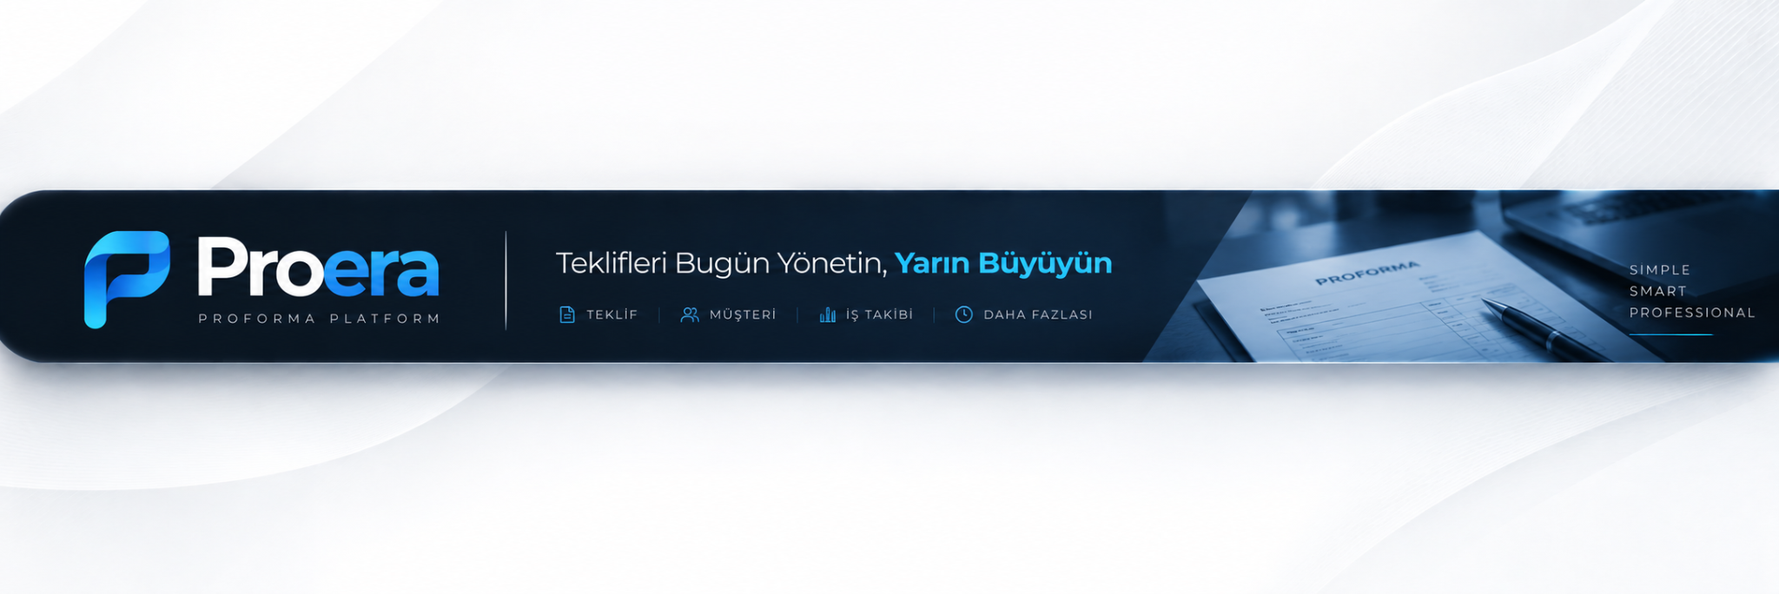
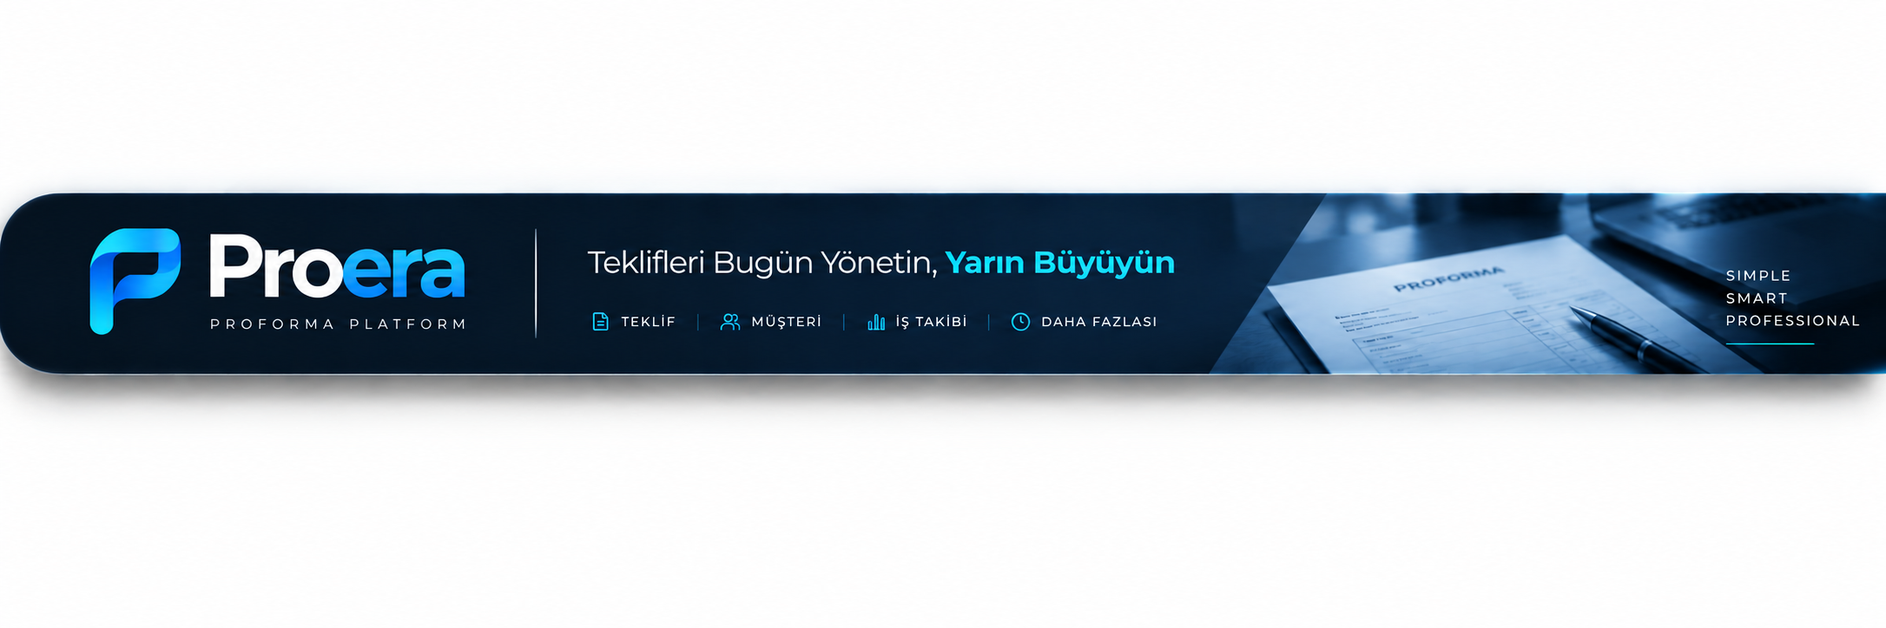
Add files via upload

Changed region(s): [[0.0, 0.307, 1.0, 0.7368], [0.3125, 0.4912, 0.625, 0.5526], [0.3125, 0.3991, 0.625, 0.4605]]

diff --git a/app.html b/app.html
@@ -46,6 +46,17 @@ input:focus,textarea:focus,select:focus{outline:none;border-color:var(--corp,#25
 :root{--app-bg:#eef2f7;--app-navy:#172033;--app-accent:#5B5BD6;--app-teal:#14B8A6}
 body{background:radial-gradient(circle at 10% 0%,#eef2ff 0,transparent 34%),radial-gradient(circle at 100% 20%,#ecfeff 0,transparent 30%),var(--app-bg)}
 .top{background:linear-gradient(120deg,#111827,#172033 58%,#242c46);border-bottom:1px solid #ffffff18;box-shadow:0 14px 40px #0f172a24}.brand span{color:#a5b4fc}.profile-pill{display:flex;align-items:center;gap:8px;padding:7px 10px;border:1px solid #ffffff22;background:#ffffff10;border-radius:14px;font-size:12px}.profile-avatar{width:28px;height:28px;border-radius:9px;background:linear-gradient(135deg,#818cf8,#14b8a6);display:grid;place-items:center;font-weight:900;color:white}.auth-shell{position:fixed;inset:0;z-index:9999;display:grid;place-items:center;padding:24px;background:radial-gradient(circle at 15% 15%,#6366f133 0,transparent 30%),radial-gradient(circle at 90% 85%,#14b8a633 0,transparent 30%),#0b1020}.auth-card{width:min(480px,94vw);padding:34px;border-radius:28px;background:#ffffffed;backdrop-filter:blur(28px);box-shadow:0 35px 100px #0008;border:1px solid #fff}.auth-mark{width:54px;height:54px;border-radius:17px;background:linear-gradient(135deg,#5B5BD6,#14B8A6);display:grid;place-items:center;color:#fff;font-size:25px;font-weight:900;box-shadow:0 14px 30px #5b5bd644}.auth-title{font-size:28px;margin:16px 0 5px;letter-spacing:-.6px}.auth-tabs{display:flex;background:#eef2f7;padding:4px;border-radius:12px;margin:18px 0}.auth-tabs button{flex:1;border:0;background:transparent;padding:9px;border-radius:9px;font-weight:800;color:#64748b;cursor:pointer}.auth-tabs button.active{background:#fff;color:#172033;box-shadow:0 3px 12px #0f172a12}.google-btn{width:100%;background:#fff;border:1px solid #dbe1ea;border-radius:12px;padding:11px;font-weight:800;cursor:pointer;margin-bottom:12px}.auth-sep{text-align:center;color:#94a3b8;font-size:11px;margin:10px 0}.onboard-overlay{position:fixed;inset:0;z-index:9998;display:none;place-items:center;padding:24px;background:#0b1020dd;backdrop-filter:blur(18px)}.onboard-card{width:min(640px,95vw);background:#fff;border-radius:28px;padding:32px;box-shadow:0 35px 100px #0007}.onboard-grid{display:grid;grid-template-columns:1fr 1fr;gap:10px}.company-profile-grid{display:grid;grid-template-columns:1fr 1fr;gap:10px}.company-profile-grid .full{grid-column:1/-1}.accent-preview{height:42px;border-radius:11px;background:linear-gradient(135deg,var(--corp),var(--app-accent));border:1px solid #0001}.top .btn{background:#ffffff10;color:#f8fafc;border:1px solid #ffffff12}.top .btn:hover{background:#ffffff1c}.top .notify-count{border:2px solid #172033}.panel,.paper,.settings-modal,.catalog-modal,.stock-modal,.archive-modal{border:1px solid #ffffffcc;box-shadow:0 18px 60px #0f172a12}
+
+<style id="v1432-proera-header">
+.proera-header-banner{max-width:calc(100% - 32px);margin:12px auto 0;border-radius:18px;overflow:hidden;box-shadow:0 14px 38px rgba(15,23,42,.14);background:#fff}
+.proera-header-banner img{display:block;width:100%;height:auto;max-height:205px;object-fit:cover;object-position:center}
+body>.top{margin-top:8px!important}
+body>.top>.brand{display:none!important}
+body>.top{justify-content:flex-end!important}
+@media(max-width:1050px){.proera-header-banner{max-width:calc(100% - 16px);margin-top:8px;border-radius:15px}.proera-header-banner img{max-height:160px}.top-actions{width:100%!important;justify-content:flex-start!important}}
+@media(max-width:700px){.proera-header-banner img{max-height:120px}.proera-header-banner{border-radius:12px}}
+@media print{.proera-header-banner{display:none!important}}
+</style>
 </style><meta name="era-version" content="11.9.1-compact-rate">
 <style id="v1192-overrides">
 /* V11.9.2: compact payment terms + strong black exchange rate */
@@ -145,17 +156,7 @@ input,textarea,select{border:1px solid rgba(15,23,42,.12)!important;border-radiu
 @media(max-width:1050px){.top{margin:8px}.top-actions{justify-content:flex-start!important}.wrap{margin-top:10px}}@media(max-width:700px){.top{border-radius:15px}.top .brand{width:100%;margin-bottom:5px}.top-actions>.btn{font-size:0!important;width:36px;padding:0!important}.top-actions>.btn::first-letter{font-size:15px}.panel{border-radius:18px!important}}
 @media print{body{background:#fff!important}.paper{border:0!important;box-shadow:none!important;border-radius:0!important}.top{display:none!important}}
 </style>
-<meta name="era-version" content="14.3-proera-proforma">
-<style id="proera-premium-header">
-.top.proera-hero{display:block!important;padding:0!important;background:#071525 url('proera-header.png') center/cover no-repeat!important;min-height:150px;border:0!important;box-shadow:0 18px 44px #0f172a2b!important;position:relative;overflow:visible}
-.proera-hero-spacer{height:150px}
-.proera-actions{display:flex!important;justify-content:flex-end!important;align-items:center!important;gap:7px!important;padding:9px 18px!important;background:linear-gradient(90deg,#071525f2,#10263bf2)!important;border-top:1px solid #ffffff18;box-shadow:0 8px 24px #0f172a20}
-.proera-actions .profile-pill{margin-right:auto}
-@media(max-width:1100px){.top.proera-hero{background-position:left center!important}.proera-hero-spacer{height:135px}.proera-actions{overflow-x:auto;justify-content:flex-start!important}.proera-actions .profile-pill{margin-right:0;min-width:max-content}.proera-actions .btn{min-width:max-content}}
-@media(max-width:700px){.top.proera-hero{background-size:auto 120px!important;background-position:left top!important;min-height:120px}.proera-hero-spacer{height:120px}.proera-actions{padding:8px 10px!important}}
-@media print{.top.proera-hero{display:none!important}}
-</style>
-</head><body><div id="authGate" class="auth-shell"><div class="auth-card"><div class="auth-mark">P</div><h1 class="auth-title">Proera</h1><div class="muted">Teklif ve proformalarınızı profesyonelce hazırlayın, müşterilerinizi ve ürünlerinizi tek çalışma alanında yönetin.</div><button class="google-btn" onclick="loginGoogle()">G&nbsp;&nbsp; Google ile Devam Et</button><div class="auth-sep">veya e-posta ile</div><div class="auth-tabs"><button id="tabLogin" class="active" onclick="setAuthMode('login')">Giriş</button><button id="tabSignup" onclick="setAuthMode('signup')">Üyelik</button></div><div id="nameArea" style="display:none"><label>Ad Soyad</label><input id="authName" autocomplete="name" placeholder="Ad Soyad"></div><label>E-posta</label><input id="authEmail" type="email" autocomplete="email" placeholder="ornek@firma.com"><div id="passwordArea"><label style="margin-top:10px">Şifre</label><input id="authPassword" type="password" autocomplete="current-password" placeholder="En az 8 karakter"></div><div id="confirmPasswordArea" style="display:none"><label style="margin-top:10px">Şifre Tekrar</label><input id="authPassword2" type="password" autocomplete="new-password" placeholder="Şifrenizi tekrar yazın"></div><div id="newPasswordArea" style="display:none"><label style="margin-top:10px">Yeni Şifre</label><input id="authNewPassword" type="password" autocomplete="new-password" placeholder="En az 8 karakter"><label style="margin-top:10px">Yeni Şifre Tekrar</label><input id="authNewPassword2" type="password" autocomplete="new-password" placeholder="Şifrenizi tekrar yazın"></div><div class="actions" id="authActions"><button class="btn primary" onclick="loginUser()">Giriş Yap</button><button class="btn light" onclick="resetPassword()">Şifremi Unuttum</button></div><div id="authMsg" class="muted" style="margin-top:12px"></div></div></div><div id="onboardOverlay" class="onboard-overlay"><div class="onboard-card"><div class="auth-mark">✦</div><h2 style="font-size:26px;margin:14px 0 6px">Firmanızı oluşturalım</h2><div class="muted" style="margin-bottom:18px">Bu bilgiler yalnızca sizin çalışma alanınızda kullanılacak. Daha sonra Ayarlar'dan değiştirebilirsiniz.</div><div class="onboard-grid"><div class="full"><label>Firma / Marka Adı *</label><input id="onboardCompany" placeholder="Örn: ABC Teknoloji"></div><div><label>Yetkili Adı</label><input id="onboardPerson" placeholder="Ad Soyad"></div><div><label>Telefon</label><input id="onboardPhone" placeholder="Telefon"></div></div><div class="actions" style="justify-content:flex-end"><button class="btn primary" onclick="createWorkspace()">Çalışma Alanını Oluştur →</button></div><div id="onboardMsg" class="muted" style="margin-top:10px"></div></div></div><header class="top proera-hero"><div class="proera-hero-spacer" aria-label="Proera - Teklifleri Bugün Yönetin, Yarın Büyüyün"></div><div class="top-actions proera-actions"><div class="profile-pill"><div class="profile-avatar" id="profileAvatar">P</div><div><b id="profileCompany">Firma</b><div id="profileEmail" style="opacity:.65;font-size:10px"></div></div></div><span id="syncStatus" style="font-size:12px;margin-right:5px">● Bulut</span><button class="btn light" style="padding:7px 10px" onclick="openArchive()">📁 Proforma Arşivi</button><button class="btn light" style="padding:7px 10px" onclick="openCatalog('manage')">📦 Ürün Kataloğu</button><div class="notify-wrap" id="notifyWrap"><button class="btn light notify-bell" type="button" onclick="toggleNotifications(event)" title="Stok Bildirimleri">🔔<span id="notifyCount" class="notify-count">0</span></button><div id="notifyPanel" class="notify-panel"><div class="notify-head"><span>Stok Bildirimleri</span><button class="notify-readall" onclick="markAllNotificationsRead(event)">Tümünü okundu yap</button></div><div id="notifyList" class="notify-empty">Bildirim yok.</div></div></div><button class="btn light" style="padding:7px 10px" onclick="openStockControl()">📊 Stok Kontrolü</button><button class="btn light" style="padding:7px 10px" onclick="openSettings()">⚙ Ayarlar</button><button class="btn light" style="padding:7px 10px" onclick="logoutUser()">Çıkış</button></div></header><div id="settingsOverlay" class="settings-overlay"><div class="settings-modal"><div class="settings-head"><div><h2 style="margin:0">⚙ Ayarlar Merkezi</h2><div class="muted">Sabit şirket bilgileri burada merkezi olarak yönetilir.</div></div><button class="btn light" onclick="closeSettings()">✕ Kapat</button></div><div class="settings-body"><div class="settings-card"><h3>Firma Profili</h3><div class="hint">Bu bilgiler yalnızca sizin firmanıza aittir ve proformanın Satıcı bölümünde kullanılır.</div><div class="company-profile-grid"><div><label>Kısa Firma / Marka Adı</label><input id="companyDisplayName" placeholder="Firma adı"></div><div><label>Resmi Ünvan</label><input id="companyLegalName" placeholder="Resmi şirket ünvanı"></div><div class="full"><label>Adres</label><textarea id="companyAddress" placeholder="Firma adresi"></textarea></div><div><label>Vergi Dairesi</label><input id="companyTaxOffice"></div><div><label>Vergi No</label><input id="companyTaxNumber"></div><div><label>Telefon</label><input id="companyPhone"></div><div><label>E-posta</label><input id="companyEmail" type="email"></div><div class="full"><label>Web Sitesi</label><input id="companyWebsite" placeholder="www.firma.com"></div></div></div><div class="settings-card"><h3>Şirket Logosu</h3><div class="hint">Logo tüm bilgisayarlarda ve proformalarda otomatik kullanılır.</div><div class="settings-logo-row"><div class="settings-logo-box"><img id="logoPreview" class="logo-preview" alt="Şirket logosu"></div><div style="flex:1"><input id="logo" type="file" accept="image/png,image/jpeg,image/webp"><div class="muted" style="margin-top:6px">PNG / JPG / WEBP önerilir.</div></div></div></div><div class="settings-card"><h3>Kurumsal Tasarım</h3><div class="hint">Proforma başlıkları, tablo ve toplam alanlarında kullanılacak renk.</div><div class="grid"><div><label>Kurumsal Renk</label><input id="corpColor" type="color" value="#111827" style="height:42px;padding:4px"></div><div><label>Renk Kodu</label><input id="corpHex" value="#111827" placeholder="#111827"></div></div></div><div class="settings-card"><h3>Banka / IBAN Bilgileri</h3><div class="hint">Buradaki hesaplar proformanın banka bölümünde otomatik gösterilir.</div><div id="bankEditors" class="bank-list-editor"></div><div class="actions"><button type="button" class="btn light" onclick="addBank()">+ Banka Ekle</button></div></div><div class="settings-card"><h3>Varsayılan Proforma Ayarları</h3><div class="hint">Yeni proforma açıldığında bu değerler otomatik uygulanır.</div><div class="grid"><div><label>Varsayılan Para Birimi</label><select id="defaultCurrency"><option value="EUR">EUR (€)</option><option value="USD">USD</option><option value="TRY">TRY (TL)</option></select></div><div><label>Varsayılan KDV %</label><input id="defaultVat" type="number" min="0" step="1" value="20"></div><div><label>Varsayılan Geçerlilik</label><select id="defaultValidity"><option value="7">7 gün</option><option value="15">15 gün</option><option value="30">30 gün</option><option value="60">60 gün</option></select></div><div class="full"><label>Varsayılan Teslimat Notu</label><input id="defaultDeliveryNote" placeholder="Örn: Stok durumuna göre 3-5 iş günü"></div></div></div></div><div class="settings-footer"><button class="btn light" onclick="closeSettings()">Vazgeç</button><button class="btn primary" onclick="saveAllSettings()">☁ Ayarları Kaydet</button></div></div></div><div id="catalogOverlay" class="catalog-overlay"><div class="catalog-modal"><div class="catalog-head"><div><h2 style="margin:0">📦 Ürün Kataloğu</h2><div class="muted">Ürünleri burada merkezi olarak ekleyin ve düzenleyin. Proforma ekranında sadece ürün seçilir.</div></div><button class="btn light" onclick="closeCatalog()">✕ Kapat</button></div><div class="catalog-body"><div class="catalog-form-card"><div class="catalog-grid"><input id="catCode" placeholder="Ürün Kodu / SKU"><input id="catName" class="wide" placeholder="Ürün adı"><input id="catGtip" placeholder="GTİP"><input id="catBrand" placeholder="Marka"><input id="catOrigin" placeholder="Menşei"><input id="catModel" placeholder="Model"><div><label>Varsayılan Birim Fiyat</label><input id="catPrice" class="money-input" type="text" inputmode="decimal" placeholder="Örn: 5.600"></div><input id="catVat" type="number" value="20" placeholder="KDV %"><select id="catCurrency"><option>EUR</option><option>USD</option><option>TRY</option></select><textarea id="catDescription" class="wide" placeholder="Açıklama / not"></textarea><div class="catalog-stock-grid"><div><label>Mevcut Stok</label><input id="catStock" type="number" min="0" value="0"></div><div><label>Kritik Alt Sınır</label><input id="catLow" type="number" min="0" value="5"></div><div><label>Yeterli Stok Sınırı</label><input id="catGood" type="number" min="0" value="15"></div></div></div><div class="actions"><button type="button" class="btn primary" onclick="saveCatalogProduct()">☁ Ürünü Kaydet</button><button type="button" class="btn light" onclick="clearCatalogForm()">Yeni / Temizle</button></div></div><div class="catalog-toolbar"><input id="catalogQuery" placeholder="Ürün kodu, ürün adı, GTİP, marka veya model ara" oninput="loadCatalog()"></div><div id="catalogSelectBar" class="actions" style="display:none;margin:10px 0"><button type="button" class="btn primary" onclick="addSelectedCatalogProducts()">✓ Seçilenleri Teklife Ekle</button><span class="muted">Bir veya birden fazla ürün seçebilirsiniz.</span></div><div id="catalogList" class="catalog-list"></div></div></div></div><div id="stockOverlay" class="stock-overlay"><div class="stock-modal"><div class="stock-head"><div><h2 style="margin:0">📊 Stok Kontrolü</h2><div class="muted">Kırmızı: 5 altı • Sarı: 5–14 • Yeşil: 15 ve üzeri</div></div><button class="btn light" onclick="closeStockControl()">✕ Kapat</button></div><div class="stock-body"><div class="stock-stats"><div class="stock-stat"><b id="stockRedCount">0</b><span>🔴 Kritik</span></div><div class="stock-stat"><b id="stockYellowCount">0</b><span>🟡 Azalan</span></div><div class="stock-stat"><b id="stockGreenCount">0</b><span>🟢 Yeterli</span></div></div><div class="catalog-toolbar"><input id="stockQuery" placeholder="Stoklarda ürün ara" oninput="renderStockControl()"><select id="stockFilter" onchange="renderStockControl()"><option value="all">Tümü</option><option value="red">Kritik</option><option value="yellow">Azalan</option><option value="green">Yeterli</option></select></div><div class="stock-movement"><div class="wide-mobile"><label>Ürün</label><select id="moveProduct"></select></div><div><label>Hareket</label><select id="moveType"><option>Giriş</option><option>Satış</option><option>Demo</option><option>İade</option><option>Düzeltme</option></select></div><div><label>Adet</label><input id="moveQty" type="number" min="0" value="1"></div><div class="wide-mobile"><label>Not</label><input id="moveNote" placeholder="Opsiyonel açıklama"></div><button class="btn primary" onclick="saveStockMovement()">Kaydet</button></div><div id="stockList"></div></div></div></div><div id="archiveOverlay" class="archive-overlay"><div class="archive-modal"><div class="archive-head"><div><h2 style="margin:0">Proforma Arşivi</h2><div class="muted">Kaydedilmiş proformaları görüntüleyin ve tekrar açın.</div></div><button class="btn light" onclick="closeArchive()">✕ Kapat</button></div><div class="archive-stats"><button class="archive-stat wait" id="statWait" onclick="setArchiveFilter('Onaya Gönderildi')"><b id="countWait">0</b>Onay Bekleyen</button><button class="archive-stat ok" id="statOk" onclick="setArchiveFilter('Onaylandı')"><b id="countOk">0</b>Onaylanan</button><button class="archive-stat no" id="statNo" onclick="setArchiveFilter('Onaylanmadı')"><b id="countNo">0</b>Onaylanmayan</button></div><div class="archive-search"><input id="archiveQuery" placeholder="Proforma no, müşteri, teklifi veren veya ürün ara" oninput="loadArchive()"><select id="archiveLimit" onchange="loadArchive()"><option value="25">Son 25</option><option value="50">Son 50</option><option value="100">Son 100</option></select></div><div id="archiveList"></div></div></div><div id="viewToolbar" class="view-toolbar"><div><b id="viewTitle">Kayıtlı Proforma</b><div style="font-size:11px;opacity:.8">Görüntüleme modu • değişiklik yapılmaz</div></div><div class="actions"><button class="btn light" onclick="window.print()">🖨 Yazdır / PDF</button><button class="btn blue" onclick="enableArchiveEdit()">✎ Düzenle</button><button class="btn light" onclick="window.close()">✕ Sekmeyi Kapat</button></div></div><main class="wrap"><section class="panel"><h2>Yeni Proforma</h2><div class="grid"><div><label>Tarih</label><input id="date" type="date"></div><div><label>Proforma No</label><input id="no" placeholder="Otomatik oluşturulacak" readonly style="background:#f3f4f6;font-weight:700"><div class="muted" style="margin-top:5px">Yeni proforma açıldığında otomatik numara verilir.</div></div></div><div class="section"><label>Alıcı Firma</label><div class="grid"><input class="full" id="buyerName" placeholder="Firma adını yazın ve kayıtlı müşterilerde arayın" autocomplete="off"><div class="full company-actions"><button type="button" class="btn light" onclick="searchCompany()">🔎 Firma Ara</button><button type="button" class="btn light" onclick="saveCustomer()">💾 Müşteriyi Kaydet</button></div><div id="companyResults" class="full company-search-results"></div><textarea class="full" id="buyerAddress" placeholder="Adres"></textarea><input id="buyerTaxOffice" placeholder="Vergi Dairesi"><input id="buyerTaxNo" placeholder="Vergi No"><input id="buyerPhone" placeholder="Telefon"><input id="buyerEmail" placeholder="E-posta"></div></div><div class="section"><label>Ürünler</label><div class="muted">Ana yöntem katalogdan seçimdir. Ürün bilgileri ve kayıtlı fiyat otomatik yüklenir.</div><div class="actions" style="margin:10px 0"><button type="button" class="btn primary" onclick="openCatalog('select')">📦 Katalogdan Ürün Seç</button><button type="button" class="btn light" onclick="addItem()">+ Manuel Ürün</button></div><div id="items" class="items"></div></div><div class="section"><div class="grid"><div class="rate-line"><div><label>Kur</label><input id="rate" value="" type="number" step="0.0001"></div><button type="button" class="btn light" onclick="fetchRate()">↻ Kuru Güncelle</button></div><div><label>Para Birimi</label><select id="currency"><option>€</option><option>USD</option><option>TL</option></select><div id="rateStatus" class="rate-status"></div></div><div><label>Proforma Durumu</label><select id="status"><option>Onaya Gönderildi</option><option>Onaylandı</option><option>Onaylanmadı</option></select></div><div><label>Geçerlilik</label><select id="validityDays"><option value="7">7 gün</option><option value="15">15 gün</option><option value="30">30 gün</option><option value="60">60 gün</option></select><div id="validUntilText" class="rate-status"></div></div><div class="quote-options"><div class="quote-options-title">🧾 Fiyat & PDF Görünümü</div><div class="vat-mode"><label><input type="radio" name="vatMode" value="excluded" checked onchange="render()"> KDV Hariç Fiyat</label><label><input type="radio" name="vatMode" value="included" onchange="render()"> KDV Dahil Fiyat</label></div><div class="premium-choice"><label><input id="showProductCode" type="checkbox" checked onchange="render()"> Ürün Kodu</label><label><input id="showGtip" type="checkbox" checked onchange="render()"> GTİP</label><label><input id="showBrand" type="checkbox" checked onchange="render()"> Marka</label><label><input id="showOrigin" type="checkbox" checked onchange="render()"> Menşei</label><label><input id="showModel" type="checkbox" checked onchange="render()"> Model</label><label><input id="showSerial" type="checkbox" checked onchange="render()"> Seri No</label></div><div class="muted" style="margin-top:7px">Gizlenen bilgiler katalogda saklanır; yalnızca proforma/PDF görünümünden kaldırılır.</div></div><div class="full payment-panel"><label>💳 Ödeme Şartları / Payment Terms</label><div class="payment-presets"><button type="button" class="btn light" onclick="setPayment('Peşin')">Peşin</button><button type="button" class="btn light" onclick="setPayment('%30 Peşin + %70 Teslimatta')">%30 + %70</button><button type="button" class="btn light" onclick="setPayment('ÖDEMENİN HEPSİ BONUSA 6 KART TAKSİT / PEŞİNAT YOK')">Bonus 6 Taksit</button><button type="button" class="btn light" onclick="setPayment('Leasing ile ödeme')">Leasing</button></div><textarea id="payment" rows="3">ÖDEMENİN HEPSİ BONUSA 6 KART TAKSİT / PEŞİNAT YOK</textarea></div><div class="full"><label>👤 Teklifi Veren / Satış Sorumlusu *</label><input id="bidder" placeholder="Örn: Burak Yavuz" required><div class="muted" style="margin-top:5px">Arşivde bu kişi teklifin takip sorumlusu olarak görünür.</div></div></div></div><div class="section"><label>Genel Teklif Bilgileri</label><div class="grid"><input id="delivery" placeholder="Teslim Tarihi"><textarea id="notes" class="full" placeholder="Notlar / koşullar"></textarea></div><div class="muted" style="margin-top:6px">GTİP, marka, menşei, model ve seri no artık her ürünün kendi satırında tutulur.</div></div><div class="actions"><button class="btn primary" onclick="saveProformaAndPdf()">☁ Kaydet + PDF</button><button class="btn light" onclick="window.print()">🖨 Yazdır</button><button class="btn blue" onclick="saveDraft()">Taslak Kaydet</button><button class="btn light" onclick="copyCurrentProforma()">⧉ Proformayı Kopyala</button><button class="btn light" onclick="resetForm()">Temizle</button></div></section><section class="paper" id="paper"></section></main><script src="https://cdn.jsdelivr.net/npm/@supabase/supabase-js@2"></script><script>
+<meta name="era-version" content="14.3-proera-proforma"></head><body><div class="proera-header-banner" aria-label="Proera Proforma Platform"><img src="proera-header.png" alt="Proera — Teklifleri Bugün Yönetin, Yarın Büyüyün"></div><div id="authGate" class="auth-shell"><div class="auth-card"><div class="auth-mark">P</div><h1 class="auth-title">Proera</h1><div class="muted">Teklif ve proformalarınızı profesyonelce hazırlayın, müşterilerinizi ve ürünlerinizi tek çalışma alanında yönetin.</div><button class="google-btn" onclick="loginGoogle()">G&nbsp;&nbsp; Google ile Devam Et</button><div class="auth-sep">veya e-posta ile</div><div class="auth-tabs"><button id="tabLogin" class="active" onclick="setAuthMode('login')">Giriş</button><button id="tabSignup" onclick="setAuthMode('signup')">Üyelik</button></div><div id="nameArea" style="display:none"><label>Ad Soyad</label><input id="authName" autocomplete="name" placeholder="Ad Soyad"></div><label>E-posta</label><input id="authEmail" type="email" autocomplete="email" placeholder="ornek@firma.com"><div id="passwordArea"><label style="margin-top:10px">Şifre</label><input id="authPassword" type="password" autocomplete="current-password" placeholder="En az 8 karakter"></div><div id="confirmPasswordArea" style="display:none"><label style="margin-top:10px">Şifre Tekrar</label><input id="authPassword2" type="password" autocomplete="new-password" placeholder="Şifrenizi tekrar yazın"></div><div id="newPasswordArea" style="display:none"><label style="margin-top:10px">Yeni Şifre</label><input id="authNewPassword" type="password" autocomplete="new-password" placeholder="En az 8 karakter"><label style="margin-top:10px">Yeni Şifre Tekrar</label><input id="authNewPassword2" type="password" autocomplete="new-password" placeholder="Şifrenizi tekrar yazın"></div><div class="actions" id="authActions"><button class="btn primary" onclick="loginUser()">Giriş Yap</button><button class="btn light" onclick="resetPassword()">Şifremi Unuttum</button></div><div id="authMsg" class="muted" style="margin-top:12px"></div></div></div><div id="onboardOverlay" class="onboard-overlay"><div class="onboard-card"><div class="auth-mark">✦</div><h2 style="font-size:26px;margin:14px 0 6px">Firmanızı oluşturalım</h2><div class="muted" style="margin-bottom:18px">Bu bilgiler yalnızca sizin çalışma alanınızda kullanılacak. Daha sonra Ayarlar'dan değiştirebilirsiniz.</div><div class="onboard-grid"><div class="full"><label>Firma / Marka Adı *</label><input id="onboardCompany" placeholder="Örn: ABC Teknoloji"></div><div><label>Yetkili Adı</label><input id="onboardPerson" placeholder="Ad Soyad"></div><div><label>Telefon</label><input id="onboardPhone" placeholder="Telefon"></div></div><div class="actions" style="justify-content:flex-end"><button class="btn primary" onclick="createWorkspace()">Çalışma Alanını Oluştur →</button></div><div id="onboardMsg" class="muted" style="margin-top:10px"></div></div></div><header class="top"><div class="brand"><img id="headerLogo" class="logo-preview" style="display:none;vertical-align:middle;margin:0 10px 0 0;max-height:42px" alt="Logo"><span id="headerCompanyName">PROERA</span> <span>BUSINESS</span></div><div class="top-actions"><div class="profile-pill"><div class="profile-avatar" id="profileAvatar">P</div><div><b id="profileCompany">Firma</b><div id="profileEmail" style="opacity:.65;font-size:10px"></div></div></div><span id="syncStatus" style="font-size:12px;margin-right:5px">● Bulut</span><button class="btn light" style="padding:7px 10px" onclick="openArchive()">📁 Proforma Arşivi</button><button class="btn light" style="padding:7px 10px" onclick="openCatalog('manage')">📦 Ürün Kataloğu</button><div class="notify-wrap" id="notifyWrap"><button class="btn light notify-bell" type="button" onclick="toggleNotifications(event)" title="Stok Bildirimleri">🔔<span id="notifyCount" class="notify-count">0</span></button><div id="notifyPanel" class="notify-panel"><div class="notify-head"><span>Stok Bildirimleri</span><button class="notify-readall" onclick="markAllNotificationsRead(event)">Tümünü okundu yap</button></div><div id="notifyList" class="notify-empty">Bildirim yok.</div></div></div><button class="btn light" style="padding:7px 10px" onclick="openStockControl()">📊 Stok Kontrolü</button><button class="btn light" style="padding:7px 10px" onclick="openSettings()">⚙ Ayarlar</button><button class="btn light" style="padding:7px 10px" onclick="logoutUser()">Çıkış</button></div></header><div id="settingsOverlay" class="settings-overlay"><div class="settings-modal"><div class="settings-head"><div><h2 style="margin:0">⚙ Ayarlar Merkezi</h2><div class="muted">Sabit şirket bilgileri burada merkezi olarak yönetilir.</div></div><button class="btn light" onclick="closeSettings()">✕ Kapat</button></div><div class="settings-body"><div class="settings-card"><h3>Firma Profili</h3><div class="hint">Bu bilgiler yalnızca sizin firmanıza aittir ve proformanın Satıcı bölümünde kullanılır.</div><div class="company-profile-grid"><div><label>Kısa Firma / Marka Adı</label><input id="companyDisplayName" placeholder="Firma adı"></div><div><label>Resmi Ünvan</label><input id="companyLegalName" placeholder="Resmi şirket ünvanı"></div><div class="full"><label>Adres</label><textarea id="companyAddress" placeholder="Firma adresi"></textarea></div><div><label>Vergi Dairesi</label><input id="companyTaxOffice"></div><div><label>Vergi No</label><input id="companyTaxNumber"></div><div><label>Telefon</label><input id="companyPhone"></div><div><label>E-posta</label><input id="companyEmail" type="email"></div><div class="full"><label>Web Sitesi</label><input id="companyWebsite" placeholder="www.firma.com"></div></div></div><div class="settings-card"><h3>Şirket Logosu</h3><div class="hint">Logo tüm bilgisayarlarda ve proformalarda otomatik kullanılır.</div><div class="settings-logo-row"><div class="settings-logo-box"><img id="logoPreview" class="logo-preview" alt="Şirket logosu"></div><div style="flex:1"><input id="logo" type="file" accept="image/png,image/jpeg,image/webp"><div class="muted" style="margin-top:6px">PNG / JPG / WEBP önerilir.</div></div></div></div><div class="settings-card"><h3>Kurumsal Tasarım</h3><div class="hint">Proforma başlıkları, tablo ve toplam alanlarında kullanılacak renk.</div><div class="grid"><div><label>Kurumsal Renk</label><input id="corpColor" type="color" value="#111827" style="height:42px;padding:4px"></div><div><label>Renk Kodu</label><input id="corpHex" value="#111827" placeholder="#111827"></div></div></div><div class="settings-card"><h3>Banka / IBAN Bilgileri</h3><div class="hint">Buradaki hesaplar proformanın banka bölümünde otomatik gösterilir.</div><div id="bankEditors" class="bank-list-editor"></div><div class="actions"><button type="button" class="btn light" onclick="addBank()">+ Banka Ekle</button></div></div><div class="settings-card"><h3>Varsayılan Proforma Ayarları</h3><div class="hint">Yeni proforma açıldığında bu değerler otomatik uygulanır.</div><div class="grid"><div><label>Varsayılan Para Birimi</label><select id="defaultCurrency"><option value="EUR">EUR (€)</option><option value="USD">USD</option><option value="TRY">TRY (TL)</option></select></div><div><label>Varsayılan KDV %</label><input id="defaultVat" type="number" min="0" step="1" value="20"></div><div><label>Varsayılan Geçerlilik</label><select id="defaultValidity"><option value="7">7 gün</option><option value="15">15 gün</option><option value="30">30 gün</option><option value="60">60 gün</option></select></div><div class="full"><label>Varsayılan Teslimat Notu</label><input id="defaultDeliveryNote" placeholder="Örn: Stok durumuna göre 3-5 iş günü"></div></div></div></div><div class="settings-footer"><button class="btn light" onclick="closeSettings()">Vazgeç</button><button class="btn primary" onclick="saveAllSettings()">☁ Ayarları Kaydet</button></div></div></div><div id="catalogOverlay" class="catalog-overlay"><div class="catalog-modal"><div class="catalog-head"><div><h2 style="margin:0">📦 Ürün Kataloğu</h2><div class="muted">Ürünleri burada merkezi olarak ekleyin ve düzenleyin. Proforma ekranında sadece ürün seçilir.</div></div><button class="btn light" onclick="closeCatalog()">✕ Kapat</button></div><div class="catalog-body"><div class="catalog-form-card"><div class="catalog-grid"><input id="catCode" placeholder="Ürün Kodu / SKU"><input id="catName" class="wide" placeholder="Ürün adı"><input id="catGtip" placeholder="GTİP"><input id="catBrand" placeholder="Marka"><input id="catOrigin" placeholder="Menşei"><input id="catModel" placeholder="Model"><div><label>Varsayılan Birim Fiyat</label><input id="catPrice" class="money-input" type="text" inputmode="decimal" placeholder="Örn: 5.600"></div><input id="catVat" type="number" value="20" placeholder="KDV %"><select id="catCurrency"><option>EUR</option><option>USD</option><option>TRY</option></select><textarea id="catDescription" class="wide" placeholder="Açıklama / not"></textarea><div class="catalog-stock-grid"><div><label>Mevcut Stok</label><input id="catStock" type="number" min="0" value="0"></div><div><label>Kritik Alt Sınır</label><input id="catLow" type="number" min="0" value="5"></div><div><label>Yeterli Stok Sınırı</label><input id="catGood" type="number" min="0" value="15"></div></div></div><div class="actions"><button type="button" class="btn primary" onclick="saveCatalogProduct()">☁ Ürünü Kaydet</button><button type="button" class="btn light" onclick="clearCatalogForm()">Yeni / Temizle</button></div></div><div class="catalog-toolbar"><input id="catalogQuery" placeholder="Ürün kodu, ürün adı, GTİP, marka veya model ara" oninput="loadCatalog()"></div><div id="catalogSelectBar" class="actions" style="display:none;margin:10px 0"><button type="button" class="btn primary" onclick="addSelectedCatalogProducts()">✓ Seçilenleri Teklife Ekle</button><span class="muted">Bir veya birden fazla ürün seçebilirsiniz.</span></div><div id="catalogList" class="catalog-list"></div></div></div></div><div id="stockOverlay" class="stock-overlay"><div class="stock-modal"><div class="stock-head"><div><h2 style="margin:0">📊 Stok Kontrolü</h2><div class="muted">Kırmızı: 5 altı • Sarı: 5–14 • Yeşil: 15 ve üzeri</div></div><button class="btn light" onclick="closeStockControl()">✕ Kapat</button></div><div class="stock-body"><div class="stock-stats"><div class="stock-stat"><b id="stockRedCount">0</b><span>🔴 Kritik</span></div><div class="stock-stat"><b id="stockYellowCount">0</b><span>🟡 Azalan</span></div><div class="stock-stat"><b id="stockGreenCount">0</b><span>🟢 Yeterli</span></div></div><div class="catalog-toolbar"><input id="stockQuery" placeholder="Stoklarda ürün ara" oninput="renderStockControl()"><select id="stockFilter" onchange="renderStockControl()"><option value="all">Tümü</option><option value="red">Kritik</option><option value="yellow">Azalan</option><option value="green">Yeterli</option></select></div><div class="stock-movement"><div class="wide-mobile"><label>Ürün</label><select id="moveProduct"></select></div><div><label>Hareket</label><select id="moveType"><option>Giriş</option><option>Satış</option><option>Demo</option><option>İade</option><option>Düzeltme</option></select></div><div><label>Adet</label><input id="moveQty" type="number" min="0" value="1"></div><div class="wide-mobile"><label>Not</label><input id="moveNote" placeholder="Opsiyonel açıklama"></div><button class="btn primary" onclick="saveStockMovement()">Kaydet</button></div><div id="stockList"></div></div></div></div><div id="archiveOverlay" class="archive-overlay"><div class="archive-modal"><div class="archive-head"><div><h2 style="margin:0">Proforma Arşivi</h2><div class="muted">Kaydedilmiş proformaları görüntüleyin ve tekrar açın.</div></div><button class="btn light" onclick="closeArchive()">✕ Kapat</button></div><div class="archive-stats"><button class="archive-stat wait" id="statWait" onclick="setArchiveFilter('Onaya Gönderildi')"><b id="countWait">0</b>Onay Bekleyen</button><button class="archive-stat ok" id="statOk" onclick="setArchiveFilter('Onaylandı')"><b id="countOk">0</b>Onaylanan</button><button class="archive-stat no" id="statNo" onclick="setArchiveFilter('Onaylanmadı')"><b id="countNo">0</b>Onaylanmayan</button></div><div class="archive-search"><input id="archiveQuery" placeholder="Proforma no, müşteri, teklifi veren veya ürün ara" oninput="loadArchive()"><select id="archiveLimit" onchange="loadArchive()"><option value="25">Son 25</option><option value="50">Son 50</option><option value="100">Son 100</option></select></div><div id="archiveList"></div></div></div><div id="viewToolbar" class="view-toolbar"><div><b id="viewTitle">Kayıtlı Proforma</b><div style="font-size:11px;opacity:.8">Görüntüleme modu • değişiklik yapılmaz</div></div><div class="actions"><button class="btn light" onclick="window.print()">🖨 Yazdır / PDF</button><button class="btn blue" onclick="enableArchiveEdit()">✎ Düzenle</button><button class="btn light" onclick="window.close()">✕ Sekmeyi Kapat</button></div></div><main class="wrap"><section class="panel"><h2>Yeni Proforma</h2><div class="grid"><div><label>Tarih</label><input id="date" type="date"></div><div><label>Proforma No</label><input id="no" placeholder="Otomatik oluşturulacak" readonly style="background:#f3f4f6;font-weight:700"><div class="muted" style="margin-top:5px">Yeni proforma açıldığında otomatik numara verilir.</div></div></div><div class="section"><label>Alıcı Firma</label><div class="grid"><input class="full" id="buyerName" placeholder="Firma adını yazın ve kayıtlı müşterilerde arayın" autocomplete="off"><div class="full company-actions"><button type="button" class="btn light" onclick="searchCompany()">🔎 Firma Ara</button><button type="button" class="btn light" onclick="saveCustomer()">💾 Müşteriyi Kaydet</button></div><div id="companyResults" class="full company-search-results"></div><textarea class="full" id="buyerAddress" placeholder="Adres"></textarea><input id="buyerTaxOffice" placeholder="Vergi Dairesi"><input id="buyerTaxNo" placeholder="Vergi No"><input id="buyerPhone" placeholder="Telefon"><input id="buyerEmail" placeholder="E-posta"></div></div><div class="section"><label>Ürünler</label><div class="muted">Ana yöntem katalogdan seçimdir. Ürün bilgileri ve kayıtlı fiyat otomatik yüklenir.</div><div class="actions" style="margin:10px 0"><button type="button" class="btn primary" onclick="openCatalog('select')">📦 Katalogdan Ürün Seç</button><button type="button" class="btn light" onclick="addItem()">+ Manuel Ürün</button></div><div id="items" class="items"></div></div><div class="section"><div class="grid"><div class="rate-line"><div><label>Kur</label><input id="rate" value="" type="number" step="0.0001"></div><button type="button" class="btn light" onclick="fetchRate()">↻ Kuru Güncelle</button></div><div><label>Para Birimi</label><select id="currency"><option>€</option><option>USD</option><option>TL</option></select><div id="rateStatus" class="rate-status"></div></div><div><label>Proforma Durumu</label><select id="status"><option>Onaya Gönderildi</option><option>Onaylandı</option><option>Onaylanmadı</option></select></div><div><label>Geçerlilik</label><select id="validityDays"><option value="7">7 gün</option><option value="15">15 gün</option><option value="30">30 gün</option><option value="60">60 gün</option></select><div id="validUntilText" class="rate-status"></div></div><div class="quote-options"><div class="quote-options-title">🧾 Fiyat & PDF Görünümü</div><div class="vat-mode"><label><input type="radio" name="vatMode" value="excluded" checked onchange="render()"> KDV Hariç Fiyat</label><label><input type="radio" name="vatMode" value="included" onchange="render()"> KDV Dahil Fiyat</label></div><div class="premium-choice"><label><input id="showProductCode" type="checkbox" checked onchange="render()"> Ürün Kodu</label><label><input id="showGtip" type="checkbox" checked onchange="render()"> GTİP</label><label><input id="showBrand" type="checkbox" checked onchange="render()"> Marka</label><label><input id="showOrigin" type="checkbox" checked onchange="render()"> Menşei</label><label><input id="showModel" type="checkbox" checked onchange="render()"> Model</label><label><input id="showSerial" type="checkbox" checked onchange="render()"> Seri No</label></div><div class="muted" style="margin-top:7px">Gizlenen bilgiler katalogda saklanır; yalnızca proforma/PDF görünümünden kaldırılır.</div></div><div class="full payment-panel"><label>💳 Ödeme Şartları / Payment Terms</label><div class="payment-presets"><button type="button" class="btn light" onclick="setPayment('Peşin')">Peşin</button><button type="button" class="btn light" onclick="setPayment('%30 Peşin + %70 Teslimatta')">%30 + %70</button><button type="button" class="btn light" onclick="setPayment('ÖDEMENİN HEPSİ BONUSA 6 KART TAKSİT / PEŞİNAT YOK')">Bonus 6 Taksit</button><button type="button" class="btn light" onclick="setPayment('Leasing ile ödeme')">Leasing</button></div><textarea id="payment" rows="3">ÖDEMENİN HEPSİ BONUSA 6 KART TAKSİT / PEŞİNAT YOK</textarea></div><div class="full"><label>👤 Teklifi Veren / Satış Sorumlusu *</label><input id="bidder" placeholder="Örn: Burak Yavuz" required><div class="muted" style="margin-top:5px">Arşivde bu kişi teklifin takip sorumlusu olarak görünür.</div></div></div></div><div class="section"><label>Genel Teklif Bilgileri</label><div class="grid"><input id="delivery" placeholder="Teslim Tarihi"><textarea id="notes" class="full" placeholder="Notlar / koşullar"></textarea></div><div class="muted" style="margin-top:6px">GTİP, marka, menşei, model ve seri no artık her ürünün kendi satırında tutulur.</div></div><div class="actions"><button class="btn primary" onclick="saveProformaAndPdf()">☁ Kaydet + PDF</button><button class="btn light" onclick="window.print()">🖨 Yazdır</button><button class="btn blue" onclick="saveDraft()">Taslak Kaydet</button><button class="btn light" onclick="copyCurrentProforma()">⧉ Proformayı Kopyala</button><button class="btn light" onclick="resetForm()">Temizle</button></div></section><section class="paper" id="paper"></section></main><script src="https://cdn.jsdelivr.net/npm/@supabase/supabase-js@2"></script><script>
 const fields=['date','no','buyerName','buyerAddress','buyerTaxOffice','buyerTaxNo','buyerPhone','buyerEmail','corpHex','rate','currency','payment','bidder','delivery','notes','status','validityDays'];
 function esc(s){return String(s??'').replace(/[&<>"']/g,m=>({'&':'&amp;','<':'&lt;','>':'&gt;','"':'&quot;',"'":'&#39;'}[m]))}
 function addItem(data={}){const d=document.createElement('div');d.className='item';d.dataset.productId=data.product_id||'';d.dataset.productCode=data.product_code||'';d.innerHTML=`<div class="product-entry"><div class="product-main"><label>Ürün Tanımı</label><input class="desc" value="${esc(data.desc||'')}" placeholder="Örn: SHINING 3D DS EX PRO C" autocomplete="off"><div class="product-results"></div></div><input class="gtip" type="hidden" value="${esc(data.gtip||'')}"><input class="pbrand" type="hidden" value="${esc(data.brand||'')}"><input class="porigin" type="hidden" value="${esc(data.origin||'')}"><input class="pmodel" type="hidden" value="${esc(data.model||'')}"><div class="product-pricing"><div><label>Adet</label><input class="qty" type="number" min="1" value="${data.qty||1}"></div><div><label>Birim Fiyat</label><input class="price money-input" type="text" inputmode="decimal" value="${formatTrInput(data.price??0)}"></div><div><label>KDV %</label><input class="vat" type="number" value="${data.vat??20}"></div><button type="button" class="btn danger" onclick="this.closest('.item').remove();render()">×</button></div><div class="serial-optional"><label>Seri No <span class="muted">(Opsiyonel)</span></label><input class="pserial" value="${esc(data.serial||'')}" placeholder="Cihaza ait seri numarası varsa girin"></div></div>`;document.getElementById('items').appendChild(d);d.querySelectorAll('input').forEach(x=>{if(!x.classList.contains('price'))x.addEventListener('input',()=>{if(x.classList.contains('vat'))x.dataset.userChanged='1';render()})});bindMoneyInput(d.querySelector('.price'));const inp=d.querySelector('.desc');inp.addEventListener('input',()=>{clearTimeout(inp._t);inp._t=setTimeout(()=>searchProductsForItem(d),160)});inp.addEventListener('focus',()=>{if(inp.value.trim())searchProductsForItem(d)});render()}
